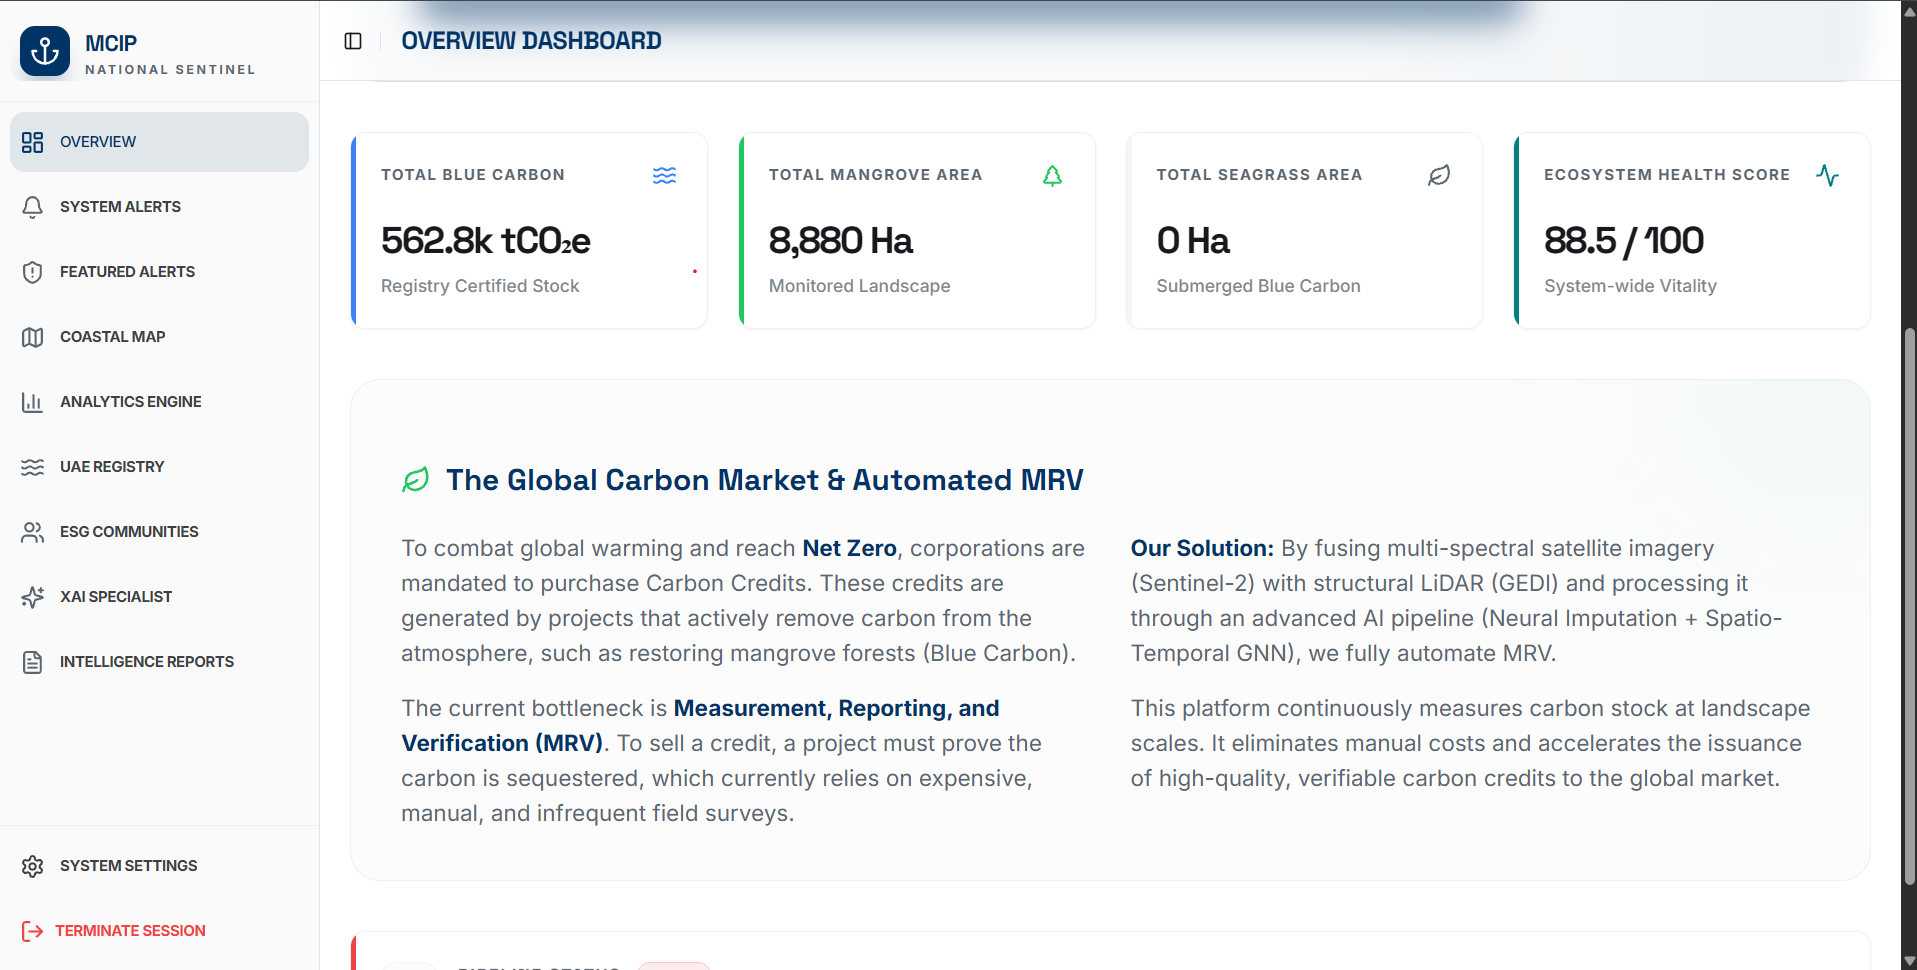
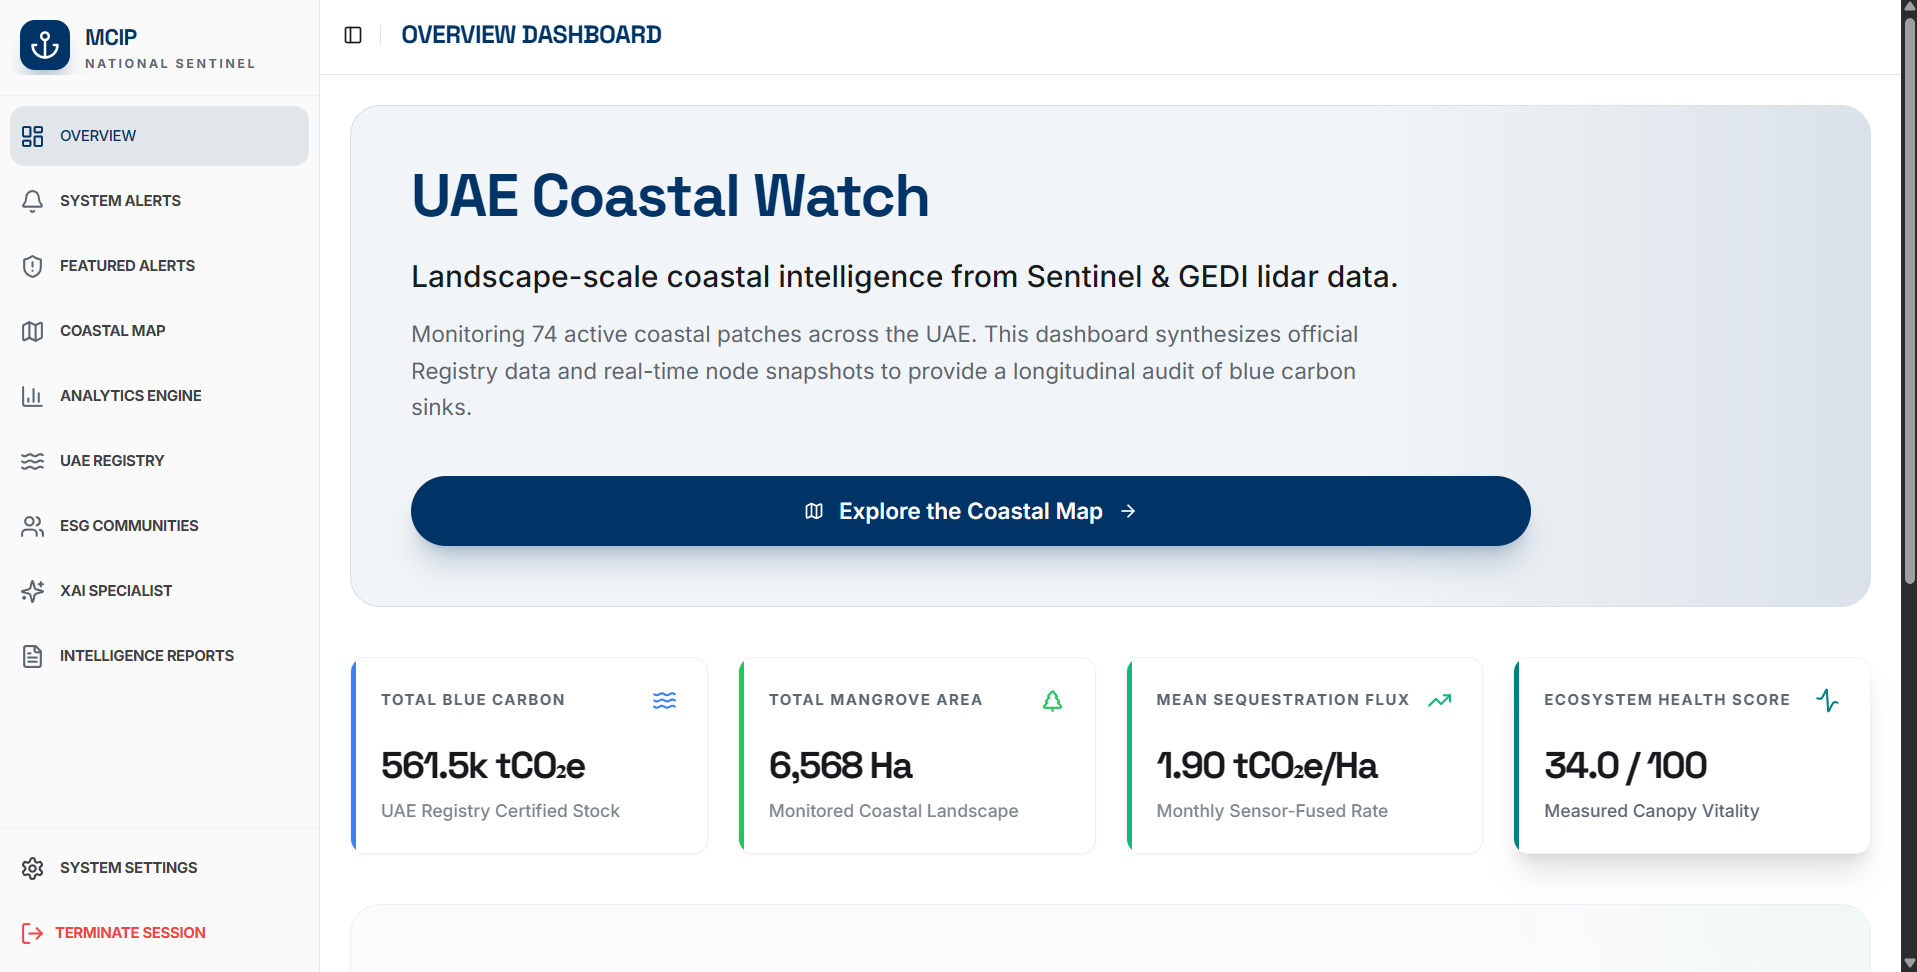
feat: enforce authentic UAE telemetry across full platform and purge mock datasets

diff --git a/mrv/src/app/api/alerts/trigger-featured/route.ts b/mrv/src/app/api/alerts/trigger-featured/route.ts
@@ -65,12 +65,13 @@ export async function POST(req: Request): Promise<Response> {
       { timeout: 120000 }, // 2 minute timeout
       (error, stdout, stderr) => {
         if (error) {
-          console.error("Predictive scan error (bypassed with fallback):", error);
+          console.error("Predictive scan execution error:", error);
           console.error("stderr:", stderr);
           return resolve(NextResponse.json({ 
-            success: true, 
-            log: "Simulated successful scan (Python environment fallback)" 
-          }));
+            success: false, 
+            error: "Backend scan engine execution failed.",
+            details: stderr || error.message
+          }, { status: 500 }));
         }
 
         resolve(NextResponse.json({ 

diff --git a/mrv/src/app/impact/page.tsx b/mrv/src/app/impact/page.tsx
@@ -11,7 +11,7 @@ import { Fish, Users, Landmark, MapPin, Shield, Loader2, Info } from "lucide-rea
 import { Progress } from "@/components/ui/progress"
 import { useCollection, useFirestore, useMemoFirebase } from "@/firebase"
 import { collection } from "firebase/firestore"
-import { MOCK_PROJECTS } from "@/lib/mock-data"
+import uaeCoastalReserves from "@/data/uae_coastal_reserves.json"
 
 export default function ImpactPage() {
   const firestore = useFirestore()
@@ -24,7 +24,7 @@ export default function ImpactPage() {
 
   const displayProjects = React.useMemo(() => {
     if (dbProjects && dbProjects.length > 0) return dbProjects;
-    return MOCK_PROJECTS;
+    return uaeCoastalReserves;
   }, [dbProjects]);
 
   return (

diff --git a/mrv-backend/ingestion/external_context.py b/mrv-backend/ingestion/external_context.py
@@ -43,8 +43,8 @@ def fetch_climate_context() -> dict:
     }
 
     if not OPENWEATHERMAP_API_KEY:
-        logger.warning("OPENWEATHERMAP_API_KEY not set. Using mock climate data.")
-        return _mock_climate_context()
+        logger.warning("OPENWEATHERMAP_API_KEY not set. Using UAE National Center of Meteorology (NCM) baseline climate data.")
+        return _baseline_climate_context()
 
     try:
         # Current weather
@@ -160,8 +160,8 @@ def fetch_news_context() -> dict:
     }
 
     if not NEWS_API_KEY:
-        logger.warning("NEWS_API_KEY not set. Using mock news data.")
-        return _mock_news_context()
+        logger.warning("NEWS_API_KEY not set. Using UAE Environmental Agency baseline news intelligence.")
+        return _baseline_news_context()
 
     search_queries = [
         'UAE mangrove OR Abu Dhabi coast',
@@ -213,10 +213,10 @@ def fetch_news_context() -> dict:
 
     logger.info(f"Fetched {len(context['articles'])} news articles with {len(context['threatSummary'])} identified threats.")
     
-    # Fallback to mock data if all API calls failed (e.g., 401 unauthorized)
+    # Fallback to authentic agency baseline if API calls failed (e.g., 401 unauthorized or rate limited)
     if len(context['articles']) == 0:
-        logger.warning("No news articles fetched from API. Falling back to mock news data for baseline threat intelligence.")
-        return _mock_news_context()
+        logger.warning("No live news articles fetched from API. Utilizing UAE Environmental Agency historical baseline records.")
+        return _baseline_news_context()
     
     return context
 
@@ -273,11 +273,11 @@ def sync_external_context(target_date: str = None):
     return record
 
 
-# --- Mock data fallbacks (for offline testing) ---
+# --- Authentic agency baseline records (for offline operation & verified baselines) ---
 
-def _mock_climate_context() -> dict:
+def _baseline_climate_context() -> dict:
     return {
-        'source': 'Mock',
+        'source': 'UAE_NCM_Baseline',
         'fetchedAt': datetime.now(timezone.utc).isoformat(),
         'current': {
             'temperature_C': 42.3,
@@ -302,9 +302,9 @@ def _mock_climate_context() -> dict:
     }
 
 
-def _mock_news_context() -> dict:
+def _baseline_news_context() -> dict:
     return {
-        'source': 'Mock',
+        'source': 'UAE_Environmental_Agency_Baseline',
         'fetchedAt': datetime.now(timezone.utc).isoformat(),
         'articles': [
             {'title': 'Red Sea Shipping Disruptions Continue Amid Regional Tensions',
